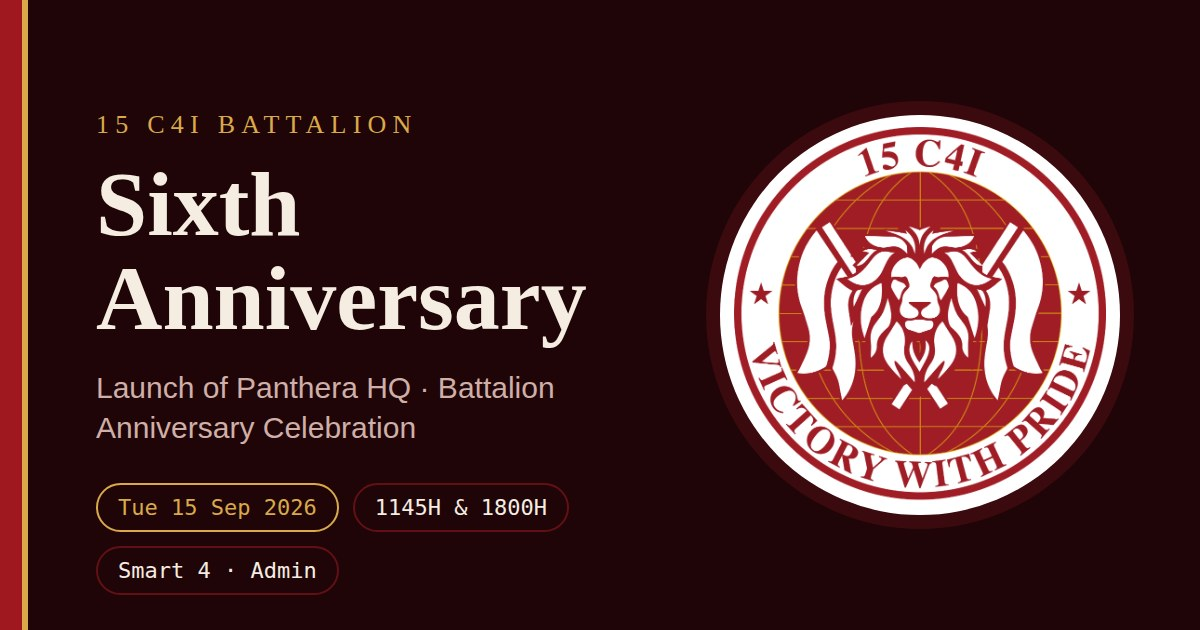
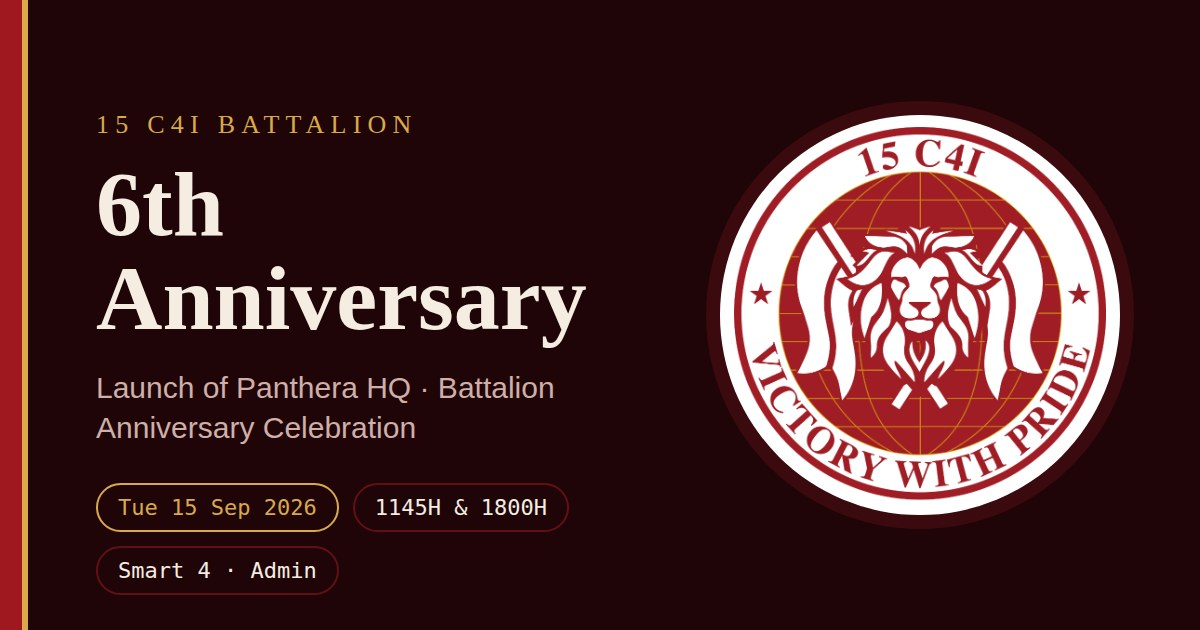
Headline reads 6th Anniversary
Claude-Session: https://claude.ai/code/session_01JEYc4ofamM1XpUnzXcGbyJ

Changed region(s): [[0.0617, 0.2714, 0.2467, 0.3921]]

diff --git a/15c4i/index.html b/15c4i/index.html
@@ -194,7 +194,7 @@ svg text{font-family:var(--mono)}
     </svg>
   </div>
   <div class="eyebrow">15 C4I Battalion</div>
-  <h1>Sixth<br>Anniversary
+  <h1>6th<br>Anniversary
     <span class="thin">Launch of Panthera HQ &middot; Battalion Anniversary Celebration</span>
   </h1>
   <div class="chips">

diff --git a/15c4i/celebration.html b/15c4i/celebration.html
@@ -202,7 +202,7 @@ svg text{font-family:var(--mono)}
     </svg>
   </div>
   <div class="eyebrow">15 C4I Battalion</div>
-  <h1>Sixth<br>Anniversary
+  <h1>6th<br>Anniversary
     <span class="thin">Battalion Anniversary Celebration &middot; Blk 7, Old K9 Hill</span>
   </h1>
   <div class="chips">
